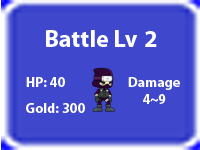
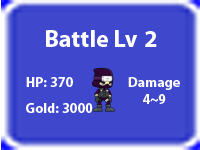
rebalancing

Changed region(s): [[0.24, 0.5067, 0.39, 0.5867], [0.42, 0.6667, 0.48, 0.7733]]

diff --git a/js/Game.js b/js/Game.js
@@ -78,22 +78,26 @@ var main = function(game) {
     // variables for battle
     var randomNum;
     var battleNum;
+    var mondie1;
+    var mondie2;
 };
 
 main.prototype = {
 		create: function() {
 				// set initial parameters
-				playerHP = 5;
-				playerMaxHP = 5;
+				playerHP = 10;
+				playerMaxHP = 10;
 				playerAtt = 4;
-				playerGold = 10;
+				playerGold = 100;
 				playerPots = 1;
-				mon1HP = 10;
+				mon1HP = 50;
 				mon1Att = 3;
-				mon2HP = 40;
+				mon2HP = 370;
 				mon2Att = 10; // min 4
-				mon3HP = 200;
+				mon3HP = 7500;
 				mon3Att = 41; // min 20
+				mondie1 = false;
+				mondie2 = false;
 				
 				// set initial button positions, visibility, and functions
 				back = this.add.sprite(0, 0, 'back');
@@ -503,7 +507,7 @@ main.prototype = {
 		},
 		buyIron: function() {
 				cost = 350;
-				hasStat = 15;
+				hasStat = 80;
 				shopGold.visible = false;
 				shopGreet.visible = false;
 				shopNo.visible = false;
@@ -530,7 +534,7 @@ main.prototype = {
 		},
 		buySteel: function() {
 				cost = 1050;
-				hasStat = 45;
+				hasStat = 500;
 				shopGold.visible = false;
 				shopGreet.visible = false;
 				shopNo.visible = false;
@@ -557,7 +561,7 @@ main.prototype = {
 		},
 		buyPlate: function() {
 				cost = 5000;
-				hasStat = 150;
+				hasStat = 1600;
 				shopGold.visible = false;
 				shopGreet.visible = false;
 				shopNo.visible = false;
@@ -589,7 +593,7 @@ main.prototype = {
 		},
 		counter: function() {
 				randomNum = Math.random();
-				randomNum = Math.round((randomNum * 100)) % 2;
+				randomNum = Math.round((randomNum * 100)) % 10;
 				if(randomNum > 0) { // counter failed
 						rightText.setText("Counter failed.\nPlayer turn.");
 						damage = Math.round(Math.random()*100) % currentMonAtt;
@@ -619,16 +623,20 @@ main.prototype = {
 				} else {
 						slashFX.animations.play('attack');
 						attackSFX.play();
-						rightText.setText("Counter success!\nPlayer did " + playerAtt + " damage.\nPlayer Turn.");
-						currentMonHP -= playerAtt;
+						damage = playerAtt*5;
+						rightText.setText("Counter success!\nPlayer did " + damage + " damage.\nPlayer Turn.");
+						currentMonHP -= damage;
 						topText.setText("Monster HP: " + currentMonHP);
 						if(currentMonHP < 1) {
 								topText.setText("You defeated the monster!\nGained "+ monGold + " gold.");
 								battle1Music.stop();
 								battle2Music.stop();
 								victorySFX.play();
+								if(battleNum === 1)
+										mondie1 = true;
 								if(battleNum === 2) {
 										mon2.animations.play('die');
+										mondie2 = true;
 								}
 								backTown.visible = true;
 								attack.visible = false;
@@ -656,8 +664,11 @@ main.prototype = {
 								battle1Music.stop();
 								battle2Music.stop();
 								victorySFX.play();
+								if(battleNum === 1)
+										mondie1 = true;
 								if(battleNum === 2) {
 										mon2.animations.play('die');
+										mondie2 = true;
 								}
 								backTown.visible = true;
 								attack.visible = false;
@@ -854,6 +865,10 @@ main.prototype = {
 				battleBut1.visible = true;
 				battleBut2.visible = true;
 				battleBut3.visible = true;
+				if(mondie1)
+						battleBut1.visible = false;
+				if(mondie2)
+						battleBut2.visible = false;
 				shopBut.visible = true;
 				topText.setText("Town\nWhat to do now...");
 				actionText.visible = true;
@@ -890,7 +905,7 @@ main.prototype = {
 				battleNum = 1;
 				currentMonHP = mon1HP;
 				currentMonAtt = mon1Att;
-				monGold = 75;
+				monGold = 800;
 				
 				// text
 				topText.setText("Monster HP: " + currentMonHP);
@@ -919,7 +934,7 @@ main.prototype = {
 				battleNum = 2;
 				currentMonHP = mon2HP;
 				currentMonAtt = mon2Att;
-				monGold = 300;
+				monGold = 3000;
 				mon2.animations.play('idle', 20, true, false);
 				
 				// text
@@ -949,7 +964,7 @@ main.prototype = {
 				battleNum = 3;
 				currentMonHP = mon3HP;
 				currentMonAtt = mon3Att;
-				monGold = 2500;
+				monGold = 15000;
 				
 				// text
 				topText.setText("Monster HP: " + currentMonHP);

diff --git a/index.html b/index.html
@@ -51,7 +51,7 @@ Turn-based Menu RPG
 </li>
 
 <li><strong>Game play:</strong>
-Use the mouse to navigate menus, buy items and equipment, and select battle actions. In battle, selecting the 'counter' action gives you a 50% chance of deflecting enemy attack and retaliating with your own attack. Failing the counter makes the player take 50% more damage. Attacking subtracts player's attack stat from the enemy's HP, but has a 10% miss rate. Running will end the battle and send the player back to town with full health, but the player loses 25% of their total gold. The player can buy items and equipment at the shop or choose to battle a monster. The goal is to accumulate enough gold to buy the ring in the shop. If the player gets the ring or dies, the game is over.
+Use the mouse to navigate menus, buy items and equipment, and select battle actions. In battle, selecting the 'counter' action gives you a 10% chance of deflecting enemy attack and retaliating with 500% damage. Failing the counter makes the player take 50% more damage. Attacking subtracts player's attack stat from the enemy's HP, but has a 10% miss rate. Running will end the battle and send the player back to town with full health, but the player loses 25% of their total gold. The player can buy items and equipment at the shop or choose to battle a monster. The goal is to accumulate enough gold to buy the ring in the shop. If the player gets the ring or dies, the game is over.
 </li>
 
 <li><strong>Prototype goal:</strong>
@@ -75,7 +75,7 @@ Everyone 10 and up who has interest in turn-based RPGs, flash games, or Valentin
 </li>
 
 <li><strong>Play time:</strong>
-5-10 mins.
+2-5 mins.
 </li>
 
 <li><strong>Strategies:</strong>
